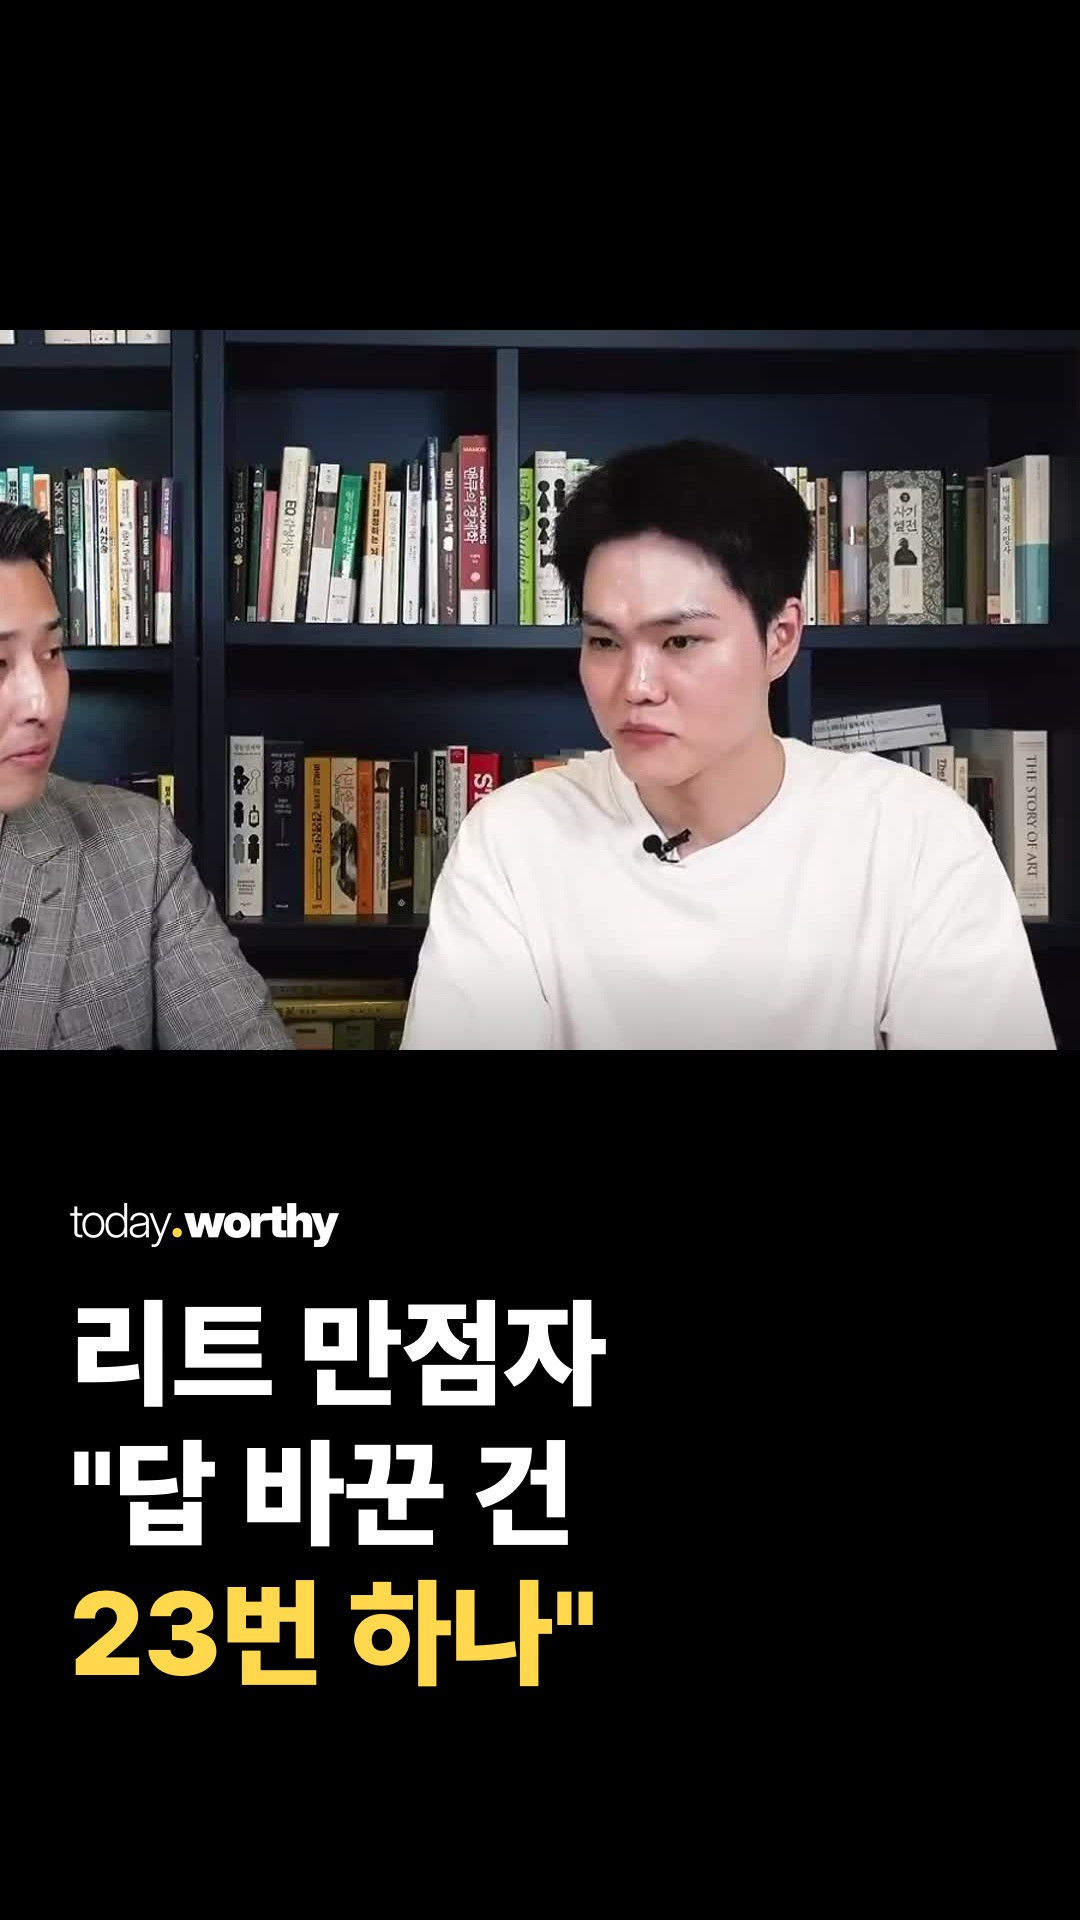
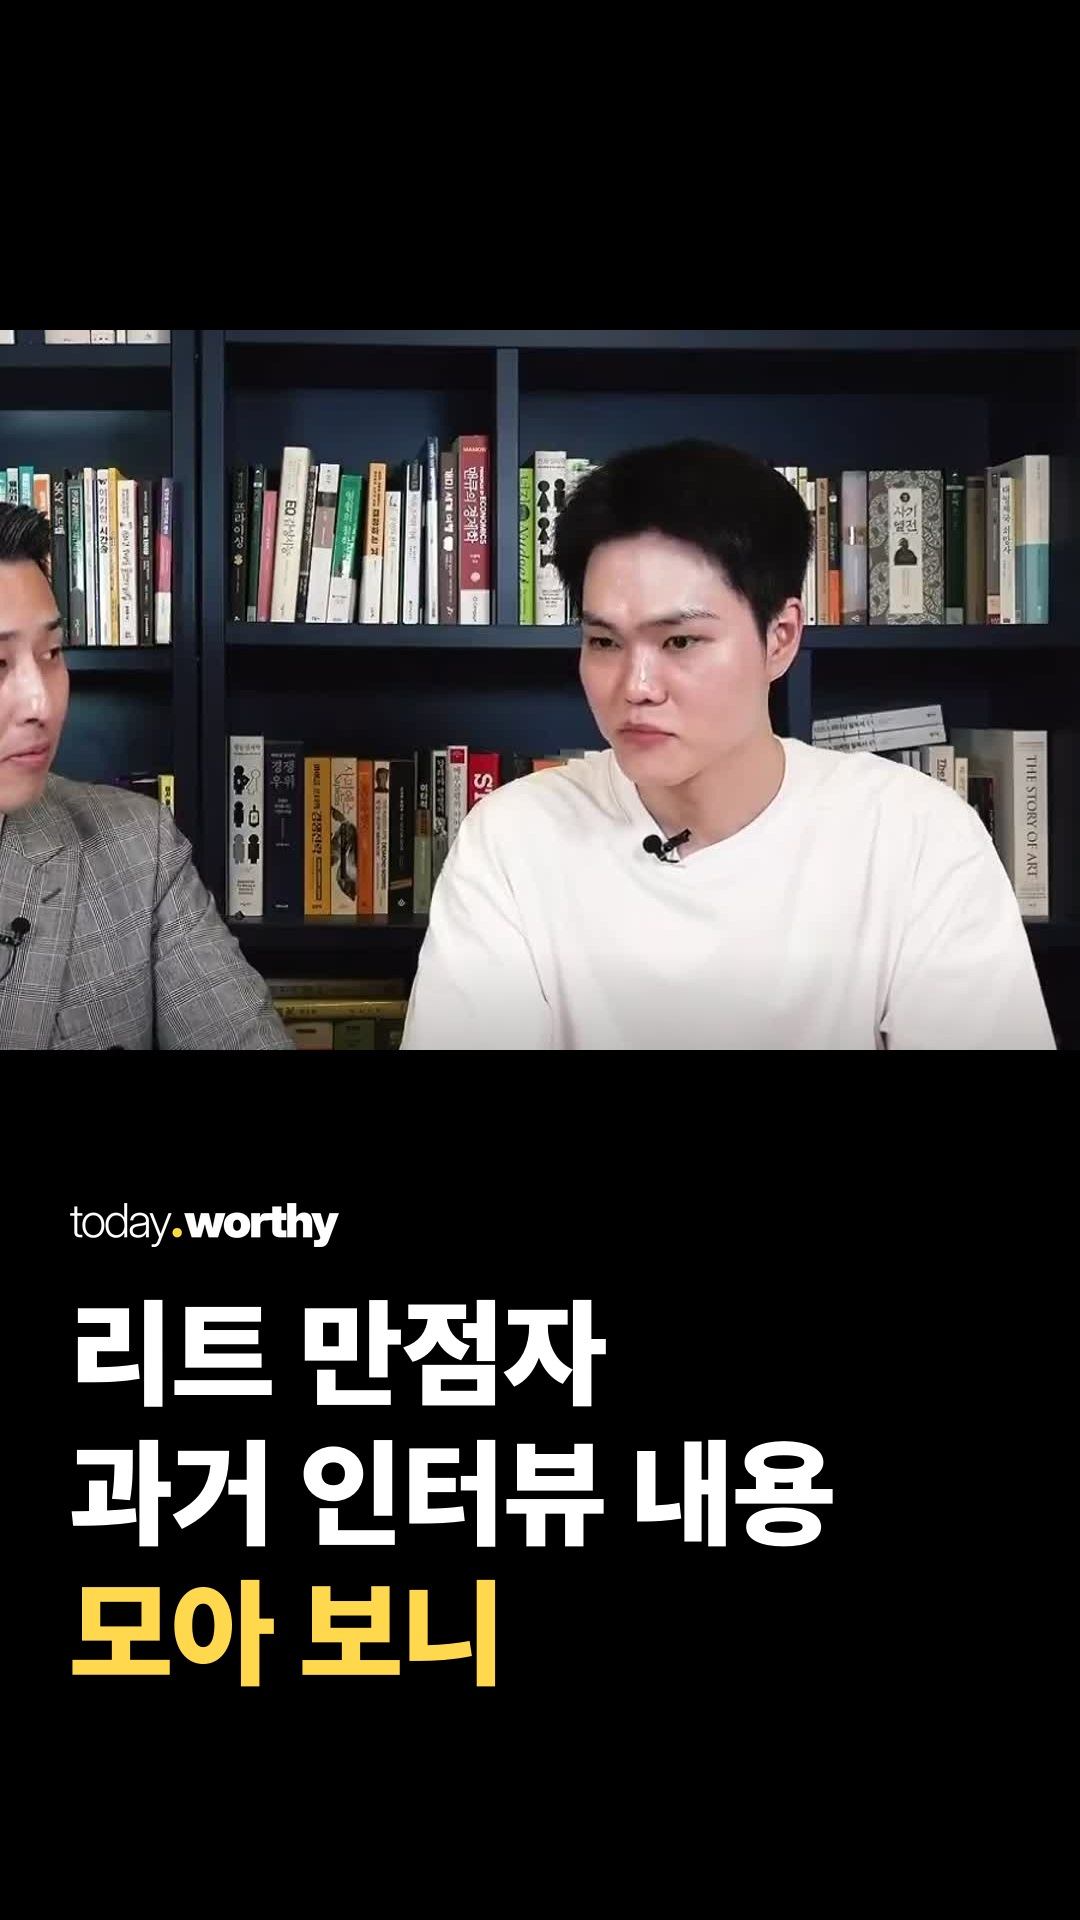
leepast-reel: 커버 문구 '리트 만점자 과거 인터뷰 내용 모아 보니'로 교체
Claude-Session: https://claude.ai/code/session_01FGsw5QnWxFUsnopcB1Czie

Changed region(s): [[0.0611, 0.75, 0.55, 0.875], [0.5806, 0.75, 0.7639, 0.8125]]

diff --git a/media/20261117-leepast-reel/build.py b/media/20261117-leepast-reel/build.py
@@ -66,5 +66,5 @@ subprocess.run(['ffmpeg','-v','error','-y','-f','concat','-safe','0','-i',f'{R}/
 # 커버: 검정 바탕 + 가운데 위 띠 + 아래 격자 통일형 큰 제목
 subprocess.run(['ffmpeg','-v','error','-y','-ss','16.7','-i',TX,'-frames:v','1','-vf',f'crop={CTX},scale=1080:{BH}',f'{R}/cov_band.jpg'],check=True)
 bg=Image.new('RGB',(1080,1920),(0,0,0)); bg.paste(Image.open(f'{R}/cov_band.jpg'),(0,330)); bg.save(f'{R}/cov_bg.jpg',quality=95)
-subprocess.run(['python3','scripts/reel_overlay.py',f'{D}/cand/overlay.png','리트 만점자\n"답 바꾼 건\n23번 하나"','',f'{R}/cov_bg.jpg',f'{D}/reel_cover.jpg'],check=True)
+subprocess.run(['python3','scripts/reel_overlay.py',f'{D}/cand/overlay.png','리트 만점자\n과거 인터뷰 내용\n모아 보니','',f'{R}/cov_bg.jpg',f'{D}/reel_cover.jpg'],check=True)
 print('done')
